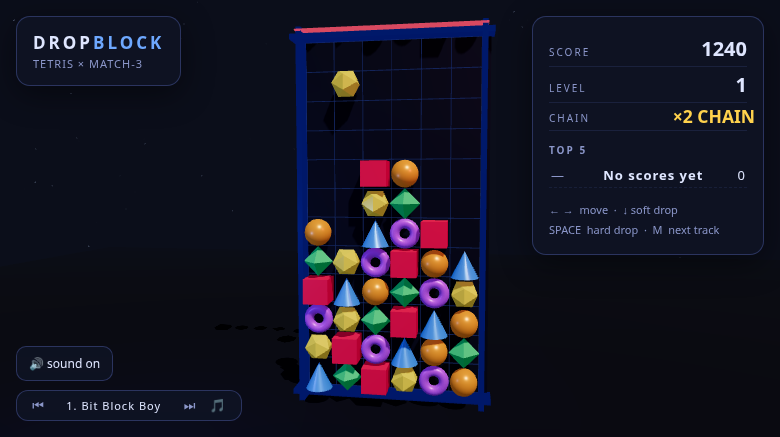
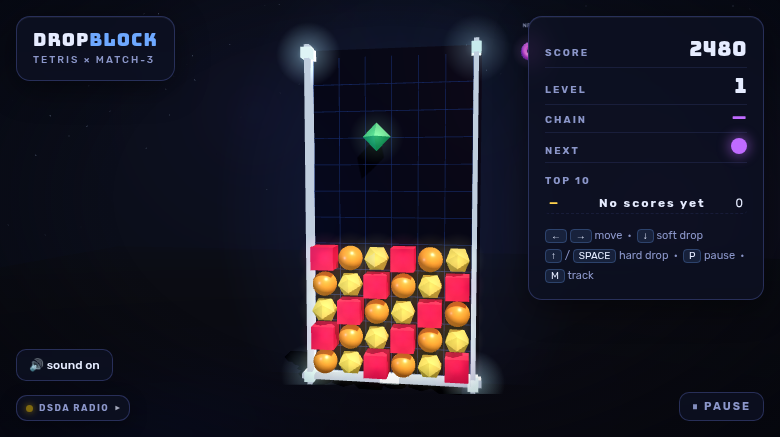
dropblock: new cabinet screenshot + dope share/score card
- regenerate screenshot.png (780x437) to match the current game: colorful pile
  at the bottom, falling piece in the air, open top (no red line), glowing rim,
  DSDA RADIO pill (was the old blue-frame + red-line + Bit Block Boy shot). This
  image feeds both the arcade-cabinet CRT screen and the share-card inset.
- redesign makeScoreCard (1200x630) to match the rim aesthetic: dual cyan+magenta
  radial glows, animated-feel cyan->magenta->purple gradient border, 4 glowing
  corner nodes, gradient-bordered screenshot inset, glowing title/score, and a
  new 'COME BE A BIG BLOCKER' brand hook. Used by both the in-game Share Score
  button and the social share.

diff --git a/games/dropblock/index.html b/games/dropblock/index.html
@@ -1774,59 +1774,79 @@ async function makeScoreCard(scoreLine, subLine) {
   cv.width = W; cv.height = H;
   const x = cv.getContext('2d');
   try { if (document.fonts && document.fonts.load) await document.fonts.load('600 62px "Playfair Display"'); } catch (e) {}
-  const A = SHARE_CARD.accent;
+  const CYAN = 0x22d3ee, MAG = 0xff3b5c, PURP = 0xc06bff, GOLD = 0xffd166;
+  // bg + dual radial glows (cyan top-left, magenta bottom-right)
   x.fillStyle = '#070b14'; x.fillRect(0, 0, W, H);
-  const g1 = x.createRadialGradient(220, 60, 40, 220, 60, 620);
-  g1.addColorStop(0, _hexA(A, 0.30)); g1.addColorStop(1, 'rgba(0,0,0,0)');
+  let g1 = x.createRadialGradient(180, 70, 40, 180, 70, 660);
+  g1.addColorStop(0, _hexA(CYAN, 0.22)); g1.addColorStop(1, 'rgba(0,0,0,0)');
   x.fillStyle = g1; x.fillRect(0, 0, W, H);
+  let g2 = x.createRadialGradient(W - 150, H - 50, 40, W - 150, H - 50, 660);
+  g2.addColorStop(0, _hexA(MAG, 0.20)); g2.addColorStop(1, 'rgba(0,0,0,0)');
+  x.fillStyle = g2; x.fillRect(0, 0, W, H);
+  // grid + vignette
   x.strokeStyle = 'rgba(255,255,255,0.035)'; x.lineWidth = 1;
   for (let gx = 30; gx < W; gx += 60) { x.beginPath(); x.moveTo(gx, 0); x.lineTo(gx, H); x.stroke(); }
   for (let gy = 30; gy < H; gy += 60) { x.beginPath(); x.moveTo(0, gy); x.lineTo(W, gy); x.stroke(); }
   const vg = x.createRadialGradient(W / 2, H / 2, 240, W / 2, H / 2, 760);
   vg.addColorStop(0, 'rgba(0,0,0,0)'); vg.addColorStop(1, 'rgba(0,0,0,0.55)');
   x.fillStyle = vg; x.fillRect(0, 0, W, H);
-  x.fillStyle = 'rgba(212,175,55,0.9)'; x.fillRect(0, 0, W, 3);
-  // screenshot inset, right side
+  // animated-feel gradient border (cyan -> magenta -> purple) framing the whole card
+  const bg = x.createLinearGradient(0, 0, W, H);
+  bg.addColorStop(0, _hexA(CYAN, 0.9)); bg.addColorStop(0.5, _hexA(MAG, 0.9)); bg.addColorStop(1, _hexA(PURP, 0.9));
+  x.strokeStyle = bg; x.lineWidth = 4; _rr(x, 9, 9, W - 18, H - 18, 20); x.stroke();
+  // 4 glowing corner nodes
+  [[14, 14], [W - 14, 14], [14, H - 14], [W - 14, H - 14]].forEach(([nx, ny]) => {
+    const ng = x.createRadialGradient(nx, ny, 0, nx, ny, 17);
+    ng.addColorStop(0, 'rgba(255,255,255,0.95)'); ng.addColorStop(0.4, _hexA(CYAN, 0.85)); ng.addColorStop(1, 'rgba(34,211,238,0)');
+    x.fillStyle = ng; x.beginPath(); x.arc(nx, ny, 17, 0, Math.PI * 2); x.fill();
+  });
+  // screenshot inset, right side (gradient border + glow)
   const sw = 540, sh = 304, sx = W - 56 - sw, sy = (H - sh) / 2 - 14;
-  x.save();
-  x.shadowColor = _hexA(A, 0.45); x.shadowBlur = 42;
-  _rr(x, sx, sy, sw, sh, 14);
-  x.fillStyle = '#0b1220'; x.fill();
-  x.restore();
+  x.save(); x.shadowColor = _hexA(CYAN, 0.5); x.shadowBlur = 42;
+  _rr(x, sx, sy, sw, sh, 14); x.fillStyle = '#0b1220'; x.fill(); x.restore();
   if (__shot) { x.save(); _rr(x, sx, sy, sw, sh, 14); x.clip(); x.drawImage(__shot, sx, sy, sw, sh); x.restore(); }
-  x.strokeStyle = 'rgba(212,175,55,0.55)'; x.lineWidth = 2; _rr(x, sx, sy, sw, sh, 14); x.stroke();
+  const sbg = x.createLinearGradient(sx, sy, sx + sw, sy + sh);
+  sbg.addColorStop(0, _hexA(CYAN, 0.85)); sbg.addColorStop(1, _hexA(MAG, 0.85));
+  x.strokeStyle = sbg; x.lineWidth = 2; _rr(x, sx, sy, sw, sh, 14); x.stroke();
   // title + tag
   x.textAlign = 'left'; x.textBaseline = 'alphabetic';
+  x.shadowColor = _hexA(CYAN, 0.5); x.shadowBlur = 26;
   x.fillStyle = '#f7f4ec';
   x.font = '600 62px "Playfair Display", Georgia, serif';
-  x.fillText(SHARE_CARD.name, 56, 116);
-  x.fillStyle = _hexA(A, 0.95);
+  x.fillText(SHARE_CARD.name, 56, 112);
+  x.shadowBlur = 0;
+  x.fillStyle = _hexA(CYAN, 0.95);
   x.font = '600 19px "Inter", "Segoe UI", system-ui, sans-serif';
-  _spacedL(x, SHARE_CARD.tag.toUpperCase(), 58, 148, 7);
+  _spacedL(x, SHARE_CARD.tag.toUpperCase(), 58, 146, 7);
+  // BIG BLOCKERS hook (brand call-to-action)
+  x.shadowColor = _hexA(MAG, 0.65); x.shadowBlur = 20;
+  x.fillStyle = GOLD;
+  x.font = '700 31px "Segoe UI", system-ui, sans-serif';
+  x.fillText('COME BE A BIG BLOCKER', 56, 208);
+  x.shadowBlur = 0;
   // score (auto-shrink to fit the left zone)
   const sl = String(scoreLine);
   let spx = 140;
   x.font = '800 ' + spx + 'px "Segoe UI", system-ui, -apple-system, sans-serif';
   while (spx > 56 && x.measureText(sl).width > 520) { spx -= 6; x.font = '800 ' + spx + 'px "Segoe UI", system-ui, -apple-system, sans-serif'; }
-  x.shadowColor = _hexA(A, 0.55); x.shadowBlur = 46;
+  x.shadowColor = _hexA(CYAN, 0.55); x.shadowBlur = 46;
   x.fillStyle = '#ffffff';
-  x.fillText(sl, 50, 396);
+  x.fillText(sl, 50, 392);
   x.shadowBlur = 0;
   x.fillStyle = 'rgba(222,230,248,0.92)';
   x.font = '500 29px "Segoe UI", system-ui, sans-serif';
-  x.fillText(subLine, 56, 448);
-  x.fillStyle = '#ffd166';
+  x.fillText(subLine, 56, 444);
+  x.fillStyle = GOLD;
   x.font = '600 26px "Segoe UI", system-ui, sans-serif';
-  x.fillText('ds-da.ca/games/' + SHARE_CARD.id, 56, 490);
+  x.fillText('ds-da.ca/games/' + SHARE_CARD.id, 56, 486);
   // DSDA lockup
   x.fillStyle = '#f7f4ec';
   x.font = '600 30px "Playfair Display", Georgia, serif';
-  x.fillText('DSDA', 56, 594);
+  x.fillText('DSDA', 56, 592);
   const dw = x.measureText('DSDA').width;
   x.fillStyle = '#d4af37';
   x.font = '600 14px "Inter", "Segoe UI", sans-serif';
-  _spacedL(x, 'ARCADE', 58 + dw + 12, 592, 5);
-  x.fillStyle = _hexA(A, 0.85); x.fillRect(0, H - 3, W, 3);
+  _spacedL(x, 'ARCADE', 58 + dw + 12, 590, 5);
   return cv;
 }
 
